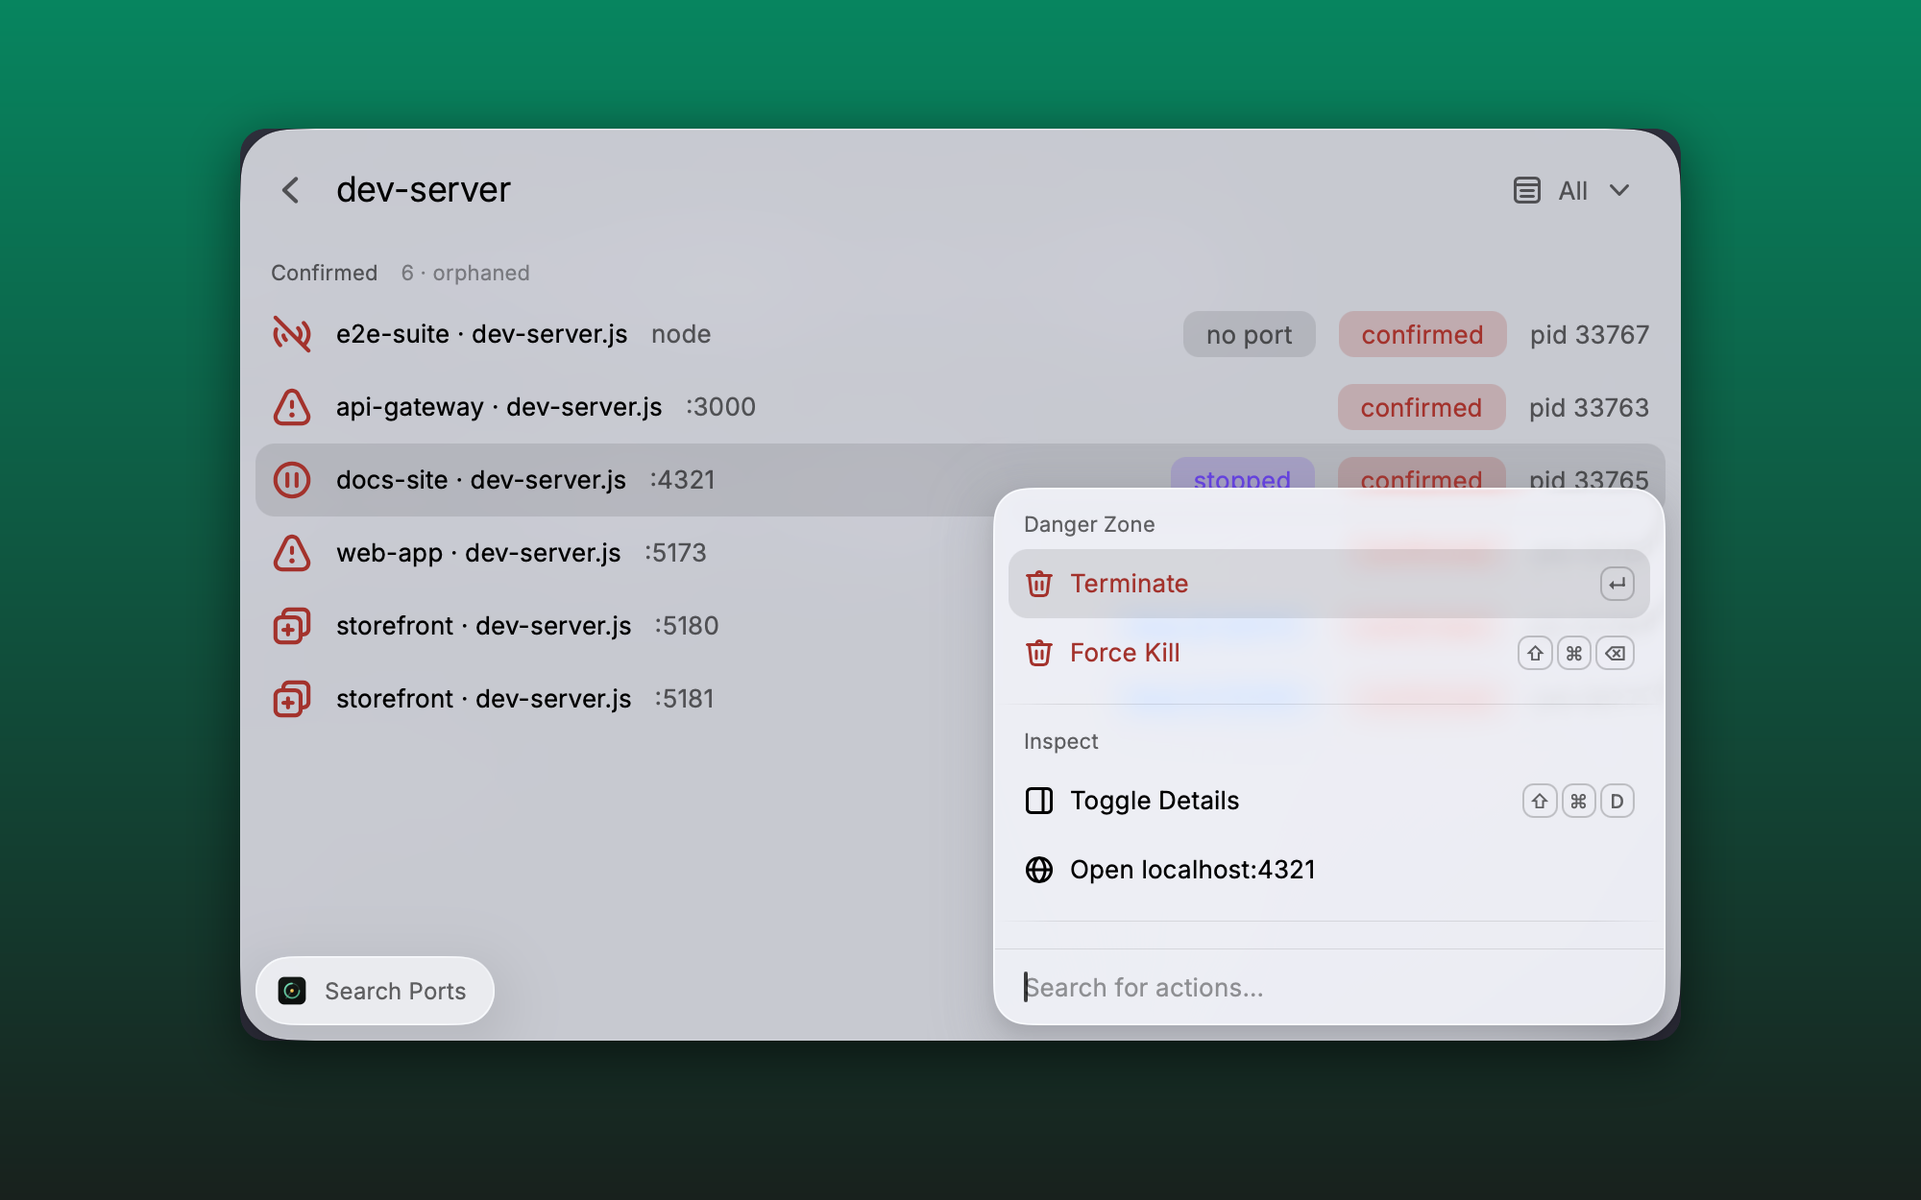
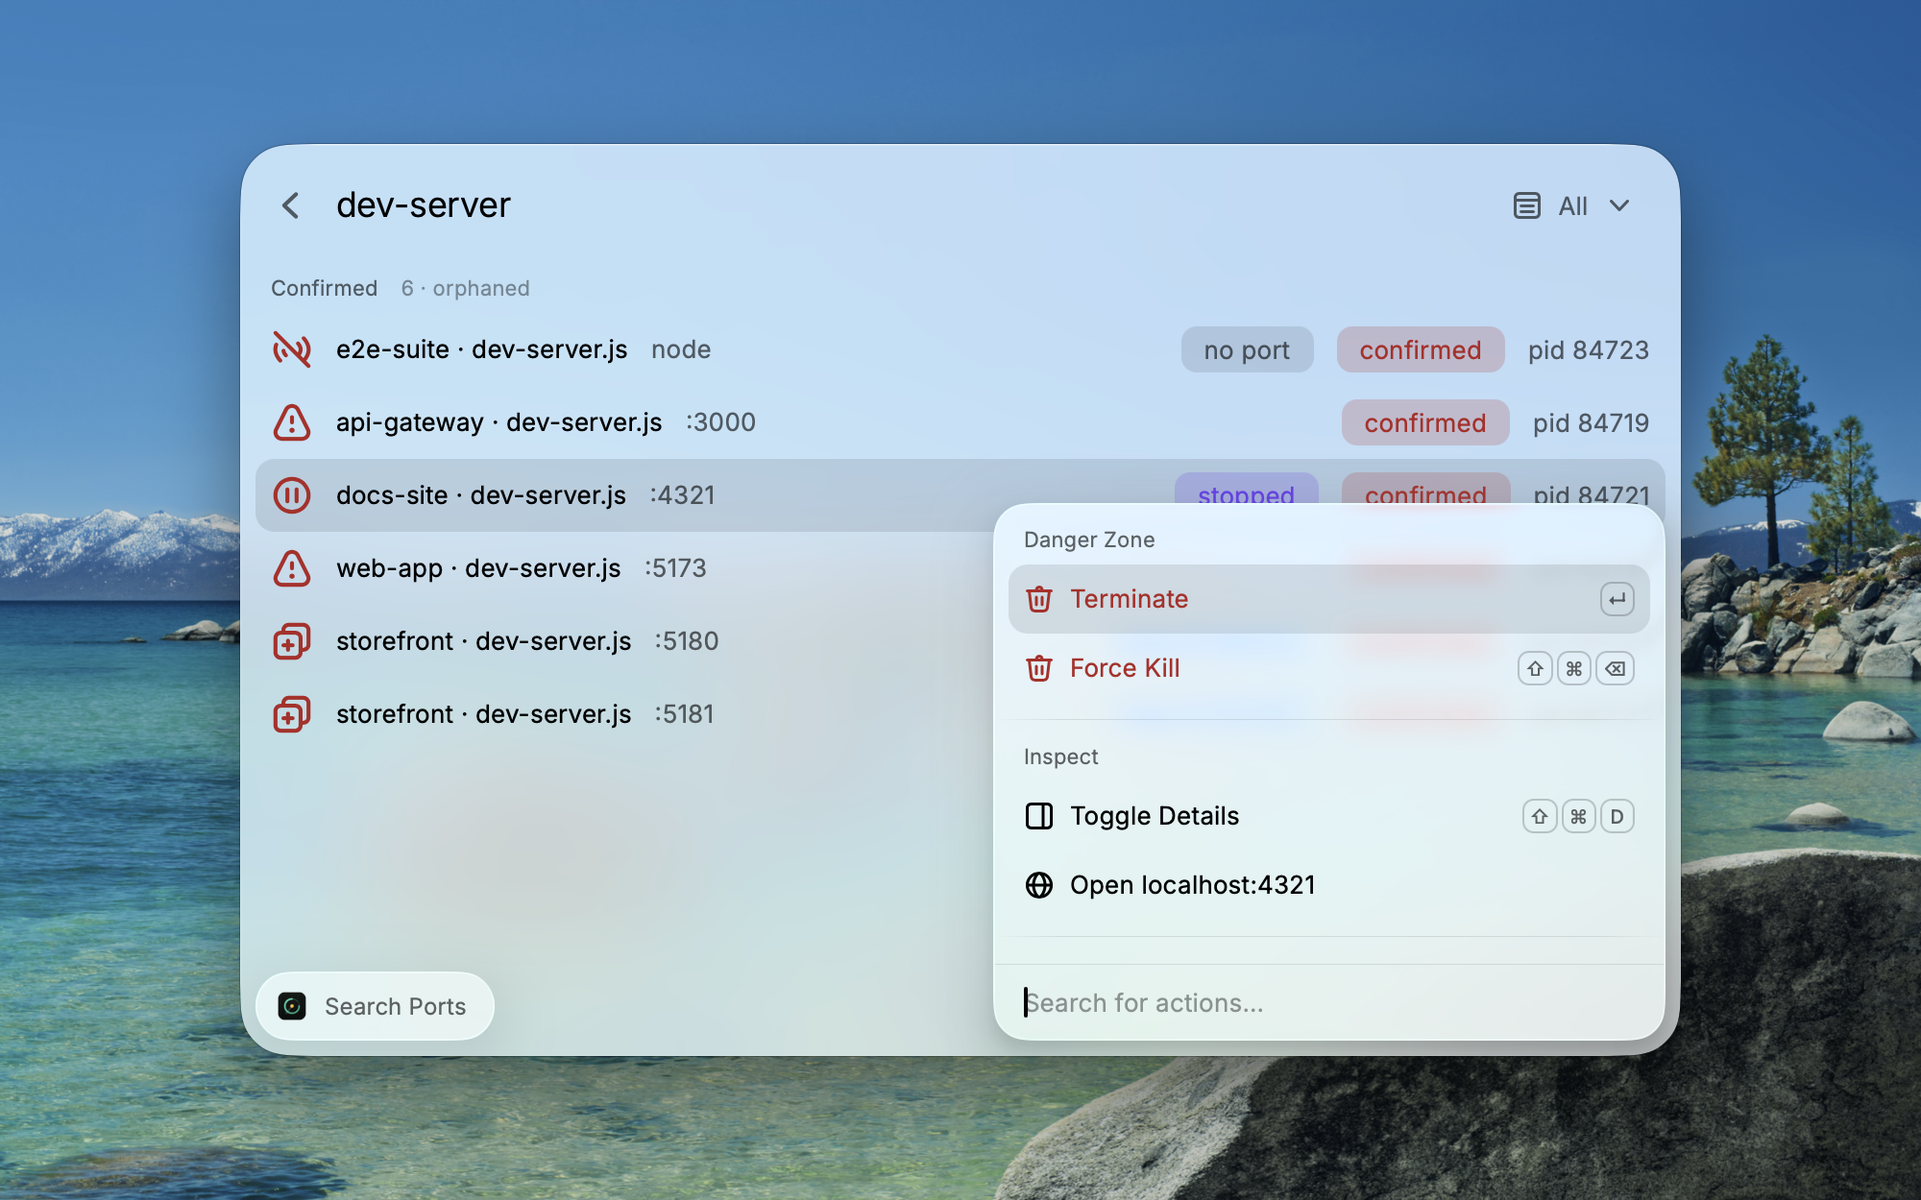
docs(raycast): 截图改走 Raycast 自带 Window Capture，回应人工评审第一轮
2026-08-21 人工评审逐张驳回 metadata 截图（"looks cropped and has a side
border … Please use the 'Capture Window' command"）——被驳的正是
scripts/capture-raycast-metadata.sh 合成的图。四张全部用 Raycast 内置
Window Capture 重出（2000×1250，官方壁纸背景与投影）。

- 删除合成脚本，改为 scripts/raycast-screenshot-fixtures.sh 只负责造演示进程
- RAYCAST-MAINTAINING.md：重写《重出截图的操作顺序》（Raycast 2.x 里 Window
  Capture 是内置命令 + ⌘⌥⌃7 热键、预览覆盖层实时合成、确认框弹出时 deeplink
  与热键均失效——第 4 张要先起覆盖层再回车），补记 greptile P1 与人工评审状态
- CLAUDE.md / .coderabbit.yaml 里对旧脚本的引用同步更新

diff --git a/docs/RAYCAST-MAINTAINING.md b/docs/RAYCAST-MAINTAINING.md
@@ -296,55 +296,58 @@ Terminate（**普通终止，不是强杀**）→ 进程真的消失、端口释
 （**验完已还原**）—— 注意扩展下载的那份当时还是 `0.8.1`：它是按
 `releases/latest` 取的，此后再没刷新过，schema 没变所以也没有任何机制提醒它过期。
 
-### 重出截图的操作顺序
+### 重出截图的操作顺序（2026-08-28 重写：必须用 Raycast 自带的 Window Capture）
 
-`npm run typecheck` → 造演示进程（见下）→ `npm run dev` 载入新构建后
-`pkill -f "ray develop"`（否则 watcher 自己会以孤儿身份出现在嫌疑列表里）→
-`bash scripts/capture-raycast-metadata.sh <输出路径>` → `npx ray lint` →
-`npx ray build` → `npm outdated --prefix integrations/raycast` → `npm run publish`
-（会**更新同一个 PR**，不会重开）。
+**为什么重写**：2026-08-21 人工评审对四张截图逐一驳回 —— *"looks cropped and has a
+side border, the corner is cut off weirdly. Please use the 'Capture Window' command in
+Raycast."* 被驳的正是当时 `scripts/capture-raycast-metadata.sh` 合成出来的图：自己截
+窗口矩形再叠到渐变背景上，窗口两侧有一条深色边、圆角处露出底层轮廓，而且 `-resize`
+过的窗口发虚。**评审员认的不是尺寸对不对，是有没有走官方工具。** 那个脚本已删除，
+别再写一个回来。
 
-**演示进程怎么造**（决定了截图里能出现哪些徽标）：
+顺序：`npm run typecheck` → `scripts/raycast-screenshot-fixtures.sh start`（造演示进程，
+见下）→ `npm run dev` 载入新构建（Window Capture 只对 **dev 模式**加载的扩展去掉
+开发标记，所以 `ray develop` 要一直开着；watcher 那个 `raycast · node` 孤儿会被
+`dev-server` 过滤词挡在画面外，不用像以前那样杀掉）→ 逐张截图（见下）→
+`npx ray lint`（"validate extension metadata" 那一项）→ `npx ray build` →
+`npm outdated --prefix integrations/raycast` → 提交、推到 PR →
+`scripts/raycast-screenshot-fixtures.sh stop`。
 
-```bash
-# 脚本本身要捕获 SIGTERM（像 vite/node 那样），否则做不出 stopped 那一档
-R=~/pr-demo-screens
-for p in web-app api-gateway docs-site e2e-suite storefront; do mkdir -p "$R/$p/src"; done
-# …把 dev-server.js 放进每个 src/，内容见本节末
-(cd "$R/web-app/src"     && nohup node "$R/web-app/src/dev-server.js" 5173 &)
-(cd "$R/api-gateway/src" && nohup node "$R/api-gateway/src/dev-server.js" 3000 &)
-(cd "$R/docs-site/src"   && nohup node "$R/docs-site/src/dev-server.js" 4321 &)
-(cd "$R/e2e-suite/src"   && nohup node "$R/e2e-suite/src/dev-server.js" --no-listen &)
-(cd "$R/storefront/src"  && nohup node "$R/storefront/src/dev-server.js" 5180 &)
-(cd "$R/storefront/src"  && nohup node "$R/storefront/src/dev-server.js" 5181 &)
-sleep 12                                  # 跨过 10s 宽限期，否则全是 possible
-kill -STOP $(pgrep -f "dev-server.js 4321")   # 造 stopped 那一档
-```
+**Window Capture 在 Raycast 2.x 里的形态**（与旧文档描述的「Advanced 里的热键」不同）：
 
-四个不显然、但缺一不可的点（每个都踩过）：
+- 它是内置命令 `Raycast › Capture Window`（设置里搜 "capture" 能找到），本机注册的
+  热键是 **⌘⌥⌃7**（Raycast 日志里 `Hotkey shortcut: ⌘⌥⌃ #26` / `windowCapture`）。
+  选项：Copy to clipboard、Show in Finder、Custom Wallpaper；`Save to Metadata`
+  勾上后直接写进 dev 扩展的 `metadata/`，文件名形如 `Raycast 2026-08-28 14.37.30.png`，
+  自己改名成 `portreaper-N.png`。
+- 触发后**不会立刻截**：先弹一个预览覆盖层（Raycast 窗口叠在当前壁纸上，底部一个
+  相机按钮 + `Save to Metadata` 复选框），点相机才落盘。预览是**实时合成**的，
+  这一点是第 4 张图的关键，见下。
+- 覆盖层一失焦就作废（日志 `Window Capture was cancelled by user`）—— 截图期间
+  别切应用、别让任何新窗口冒出来。
+- 用 deeplink `raycast://extensions/raycast/raycast/capture-window` 也能触发，但
+  外部触发会先弹「Request to run」确认（选 Always Run Command 后不再弹），且
+  **确认框（`confirmAlert`）弹着的时候 deeplink 会被直接吞掉**，热键也被屏蔽。
 
-- **必须用绝对脚本路径启动**。`extract_project_name` 要求路径形如
-  `/Users/<user>/…/<项目>/src/…`（认 `src`/`dist`/`node_modules` 这类停用词，
-  取它前一段）。用 `cd` 进去再跑 `node dev-server.js`，argv 里是相对路径，
-  标签就退化成 `dev-server.js · node`，项目名整个消失。
-- **每个进程从自己的项目目录启动**。全从同一个 cwd 启动的话，引擎按
-  「同 cwd + 同脚本身份」把六行**互相**判成重复实例，画面上一片 `dup of`。
-- **放在 `/tmp` 不行**：`extract_project_name` 只认 `/Users/` 下的路径。
-- 脚本名 `dev-server.js` 同时充当截图里的搜索过滤词 —— 它出现在 `app_label` 与
-  `full_command` 里，一个词就把开发机上的真实进程全挡在画面外（务必先确认它
-  在你机器上零命中：`portreaper-cli scan --json | grep -c dev-server`）。
+四张图分别怎么摆（都先在搜索框输入 `dev-server`）：
 
-```js
-// dev-server.js
-const port = process.argv[2];
-process.on("SIGTERM", () => process.exit(0));   // 捕获信号，才做得出 stopped 那一档
-if (port && port !== "--no-listen") {
-  require("node:net").createServer(() => {}).listen(Number(port), "127.0.0.1");
-}
-setInterval(() => {}, 1 << 30);
-```
+| 图 | 状态 | 操作 |
+|---|---|---|
+| 1 | 满宽列表，五种徽标同框 | ⌘⇧D 收起详情 → ⌘⌥⌃7 → 点相机 |
+| 2 | 列表 + 详情面板，选中被挂起的 docs-site | ↓↓ 选到 docs-site（详情默认展开）→ ⌘⌥⌃7 → 点相机 |
+| 3 | ⌘K 动作面板 | ↓↓ → ⌘⇧D → ⌘K → ⌘⌥⌃7 → 点相机 |
+| 4 | 终止确认框 | ↓↓ → ⌘⇧D → **先 ⌘⌥⌃7 再立刻回车**（确认框弹出后热键与 deeplink 都失效，只能反过来：覆盖层先起、再让确认框在实时预览里出现）→ 点相机 → **Esc 关覆盖层 → 点 Cancel**（别按回车，那是 Terminate） |
 
-用完清干净：`pkill -CONT -f dev-server.js; pkill -f dev-server.js; rm -rf ~/pr-demo-screens`。
+> 自动化备忘（2026-08-28 这轮是无人值守做的，记下来免得重摸）：System Events 的
+> `key code 26 using {command down, option down, control down}` **触发不了** Raycast
+> 的全局热键，得用 CGEvent 在 HID 层投递（`CGEvent(keyboardEventSource:virtualKey:keyDown:)`
+> + `post(tap: .cghidEventTap)`）；发按键的进程需要辅助功能权限，这台机器上 Warp 没有、
+> Ghostty 有，`open -na Ghostty --args -e <脚本>` 起的脚本会继承 Ghostty 的授权，但要先
+> `set visible of process "Ghostty" to false`，否则 Ghostty 窗口一冒头 Raycast 就收起。
+
+**演示进程**：`scripts/raycast-screenshot-fixtures.sh start | stop`。脚本头部写着四个
+缺一不可的点（绝对路径、各自 cwd、必须在 `/Users/` 下、`dev-server` 零命中），
+不再重复。
 
 **deeplink 打开命令时有个会误杀进程的坑**：
 `open "raycast://extensions/fhf1121/portreaper/search-ports"` 会先弹一次
@@ -435,14 +438,9 @@ Confirmed 的孤儿不会被降档。判定分层由分区标题与 Dropdown 呈
       顺带注意：deeplink 的「Request to run」确认框背后就是 Raycast 的应用列表，
       别在它还在的时候截图。
 
-      生成用 **`scripts/capture-raycast-metadata.sh`**（维护者工具，在主仓库
-      `scripts/` 下，不随扩展提交）。三个会静默毁掉成果的坑已固化进脚本，
-      不必再靠记忆规避：只截窗口矩形而非全屏、取面积最大的窗口（⌘K 动作面板与
-      输入法候选条都是独立窗口）、圆角遮罩剔除窗口外像素。
-
-      脚本管不到、调用方要自己注意的第四个坑：`ray develop` 的 watcher 自己
-      就是个无端口孤儿，会以 `raycast · node` 出现在嫌疑列表里。扩展一旦载入
-      Raycast，watcher 就可以停掉、命令仍可用 —— 截图前先 `pkill -f "ray develop"`。
+      **2026-08-28 四张全部用 Raycast 自带的 Window Capture 重出**（人工评审驳回了
+      此前合成脚本的产物，见《重出截图的操作顺序》）。演示进程由
+      `scripts/raycast-screenshot-fixtures.sh` 生成；截图本身只能走官方工具。
 
   > README 里引用的图片放**顶层 `media/`**，不能混进 `metadata/` 或 `assets/`。
   > 目前 README 未引用任何图片，故无需建 `media/`。
@@ -452,12 +450,22 @@ Confirmed 的孤儿不会被降档。判定分层由分区标题与 Dropdown 呈
       SHA-256 校验、校验失败即删、UI 明示，并引用上述先例 —— 这是审核最关注的一点，
       主动说明比等着被问效率高。
 
-      **当前状态：raycast/extensions#30075，OPEN，等待人工评审**
+      **当前状态：raycast/extensions#30075，OPEN，2026-08-28 重新标为 Ready for review**
       （2026-08-08 提交；raycastbot 提示初审最长 15 个工作日）。
 
-      机器人评审（greptile）提了三条，均成立、均已修并推到同一个 PR，
-      见 commit `Update portreaper extension`：schema 不兼容的托管副本换不掉、
-      无身份令牌的行仍摆着终止入口、偏好标题不合 title case 约定。
+      机器人评审（greptile）共提了四条，均成立、均已修并推到同一个 PR：
+      schema 不兼容的托管副本换不掉、无身份令牌的行仍摆着终止入口、偏好标题不合
+      title case 约定（前三条见 commit `Update portreaper extension`）；第四条
+      P1「并发恢复会删掉 CLI」（2026-08-16，落在上一条回复之后 3 分钟，一度漏看）——
+      `load()` 可重入而 `reqId` 只保护 React state，两轮同时进恢复分支时后一轮的
+      `rm(cliPath)` 会删掉前一轮刚装好的副本。修法：去掉两处 `rm`（`installCli`
+      本就以 `rename` 原子覆盖，先删只会制造「磁盘上没有 CLI」的窗口）+
+      `installCliOnce` 单飞下载，见 commit `fix(raycast): 恢复分支不再先删托管 CLI`。
+
+      **人工评审第一轮（2026-08-21，@0xdhrv）**：四张 metadata 截图逐一驳回
+      （"looks cropped and has a side border … Please use the 'Capture Window'
+      command"），PR 被转成草稿。2026-08-28 用 Raycast 自带 Window Capture 全部
+      重出并回复，重新点 Ready for review。教训与新流程见《重出截图的操作顺序》。
 
       两条**再提交时的操作要点**：
 

diff --git a/CLAUDE.md b/CLAUDE.md
@@ -53,7 +53,7 @@ node scripts/bump-version.mjs --check 0.1.0
 
 The Rust toolchain is pinned by `rust-toolchain.toml` (constrains local dev, CI, and release builds alike; the upgrade steps are documented in that file — keep the workflow files in sync). CI (`.github/workflows/ci.yml`) runs the full gate on macOS + Windows; the macOS leg additionally cross-checks `x86_64-apple-darwin`, runs the guard scripts + version-consistency check, and typechecks the Raycast extension (`npm ci --prefix integrations/raycast && npm run typecheck --prefix integrations/raycast` — the extension is otherwise outside every workspace gate). Release is tag-triggered (`v*`, see `docs/RELEASING.md`). PR review is CodeRabbit (`.coderabbit.yaml`): its `path_instructions` mirror the invariants in this file — when an invariant here changes, update the matching block there (it deliberately disables clippy/oxlint to avoid double reports). The GUI crate is `portreaper_lib` (see `src-tauri/Cargo.toml [lib]`); `main.rs` is a thin entry point calling `portreaper_lib::run()`.
 
-**Cargo workspace layout** (roadmap + rationale: `docs/ARCHITECTURE-CORE-SPLIT.md`): members are `crates/portreaper-core` (the engine) + `crates/portreaper-cli` (headless frontend, feeds Raycast) + `src-tauri` (the GUI shell). The Raycast extension itself lives in `integrations/raycast/` — a separate npm project (own `package-lock.json`, **not** part of the pnpm workspace) that installs the released `portreaper-cli` binary and verifies it against `portreaper-cli-SHA256SUMS`. Maintainer notes (Store submission checklist, real-machine QA log, the pitfalls behind each decision) live in `docs/RAYCAST-MAINTAINING.md` — deliberately **outside** the extension directory, because `ray publish` submits that directory verbatim into a public raycast/extensions PR. Keep `integrations/raycast/` limited to what the Store submission needs; the metadata screenshots are regenerated by `scripts/capture-raycast-metadata.sh`. **The extension is English-only by design and has no i18n dictionary** — the Store accepts US English only, and `src/i18n.ts` is unimportable there anyway (it touches `localStorage`/`navigator` at module top level); its user-facing strings are inline English literals, and verdict reasons render as raw engine codes (`ppid1_orphan`). It also gets **no Dependabot npm updates** — Dependabot's pnpm probe rejects any subdirectory under a repo-root pnpm workspace regardless of that subdirectory's own layout, so `npm outdated --prefix integrations/raycast` before a Store submission is the manual substitute (both facts are recorded where they bite: `.coderabbit.yaml`'s raycast rule and `.github/dependabot.yml`'s header). The workspace root is the *repo root*; `target/` and `Cargo.lock` live there, **not** under `src-tauri/`. Three consequences that bite if you forget them: `Swatinem/rust-cache` keys on `". -> target"` in both workflows; `release.yml`'s dmg post-processing globs `target/<triple>/release/bundle/…`; and `scripts/bump-version.mjs` reads `Cargo.lock` from the root while still reading `Cargo.toml` from `src-tauri/` (that asymmetry is deliberate — the lockfile belongs to the whole workspace, the version belongs to the app crate). `src-tauri/.gitignore` **keeps** its `/target/` line on purpose: oxfmt scopes itself by gitignore, and a pre-split checkout with a leftover `src-tauri/target/` would otherwise make `vp check` crawl into cargo's fingerprint JSON. `[profile.release]` also lives in the **root** manifest (cargo silently ignores a profile in a member crate): `lto="thin"` + `codegen-units=1` + `strip="debuginfo"`, with two deliberate departures from the official size guidance written into the file — `opt-level` stays at 3 (there is a real 2s hot path parsing lsof + two `ps`), and `panic="unwind"` is spelled out to stop anyone trading it for size, which would void the panic hook, the `PoisonError::into_inner` recoveries and the `spawn_blocking` JoinError fallbacks in one move. `strip` is `debuginfo`, not `symbols`, so panic backtraces keep their function names. A `[target.'cfg(windows)'.dependencies]` table must stay at the **end** of `src-tauri/Cargo.toml`: TOML tables run until the next header, so putting one mid-file silently makes every later dependency Windows-only (first attempt did exactly that and surfaced as an unrelated-looking `Permission log:default not found`).
+**Cargo workspace layout** (roadmap + rationale: `docs/ARCHITECTURE-CORE-SPLIT.md`): members are `crates/portreaper-core` (the engine) + `crates/portreaper-cli` (headless frontend, feeds Raycast) + `src-tauri` (the GUI shell). The Raycast extension itself lives in `integrations/raycast/` — a separate npm project (own `package-lock.json`, **not** part of the pnpm workspace) that installs the released `portreaper-cli` binary and verifies it against `portreaper-cli-SHA256SUMS`. Maintainer notes (Store submission checklist, real-machine QA log, the pitfalls behind each decision) live in `docs/RAYCAST-MAINTAINING.md` — deliberately **outside** the extension directory, because `ray publish` submits that directory verbatim into a public raycast/extensions PR. Keep `integrations/raycast/` limited to what the Store submission needs; the demo processes for the metadata screenshots come from `scripts/raycast-screenshot-fixtures.sh`, and the screenshots themselves **must be taken with Raycast's own Window Capture command** — Store review rejected composited images (2026-08-21), so there is deliberately no compositing script any more. **The extension is English-only by design and has no i18n dictionary** — the Store accepts US English only, and `src/i18n.ts` is unimportable there anyway (it touches `localStorage`/`navigator` at module top level); its user-facing strings are inline English literals, and verdict reasons render as raw engine codes (`ppid1_orphan`). It also gets **no Dependabot npm updates** — Dependabot's pnpm probe rejects any subdirectory under a repo-root pnpm workspace regardless of that subdirectory's own layout, so `npm outdated --prefix integrations/raycast` before a Store submission is the manual substitute (both facts are recorded where they bite: `.coderabbit.yaml`'s raycast rule and `.github/dependabot.yml`'s header). The workspace root is the *repo root*; `target/` and `Cargo.lock` live there, **not** under `src-tauri/`. Three consequences that bite if you forget them: `Swatinem/rust-cache` keys on `". -> target"` in both workflows; `release.yml`'s dmg post-processing globs `target/<triple>/release/bundle/…`; and `scripts/bump-version.mjs` reads `Cargo.lock` from the root while still reading `Cargo.toml` from `src-tauri/` (that asymmetry is deliberate — the lockfile belongs to the whole workspace, the version belongs to the app crate). `src-tauri/.gitignore` **keeps** its `/target/` line on purpose: oxfmt scopes itself by gitignore, and a pre-split checkout with a leftover `src-tauri/target/` would otherwise make `vp check` crawl into cargo's fingerprint JSON. `[profile.release]` also lives in the **root** manifest (cargo silently ignores a profile in a member crate): `lto="thin"` + `codegen-units=1` + `strip="debuginfo"`, with two deliberate departures from the official size guidance written into the file — `opt-level` stays at 3 (there is a real 2s hot path parsing lsof + two `ps`), and `panic="unwind"` is spelled out to stop anyone trading it for size, which would void the panic hook, the `PoisonError::into_inner` recoveries and the `spawn_blocking` JoinError fallbacks in one move. `strip` is `debuginfo`, not `symbols`, so panic backtraces keep their function names. A `[target.'cfg(windows)'.dependencies]` table must stay at the **end** of `src-tauri/Cargo.toml`: TOML tables run until the next header, so putting one mid-file silently makes every later dependency Windows-only (first attempt did exactly that and surfaced as an unrelated-looking `Permission log:default not found`).
 
 ## Architecture
 
